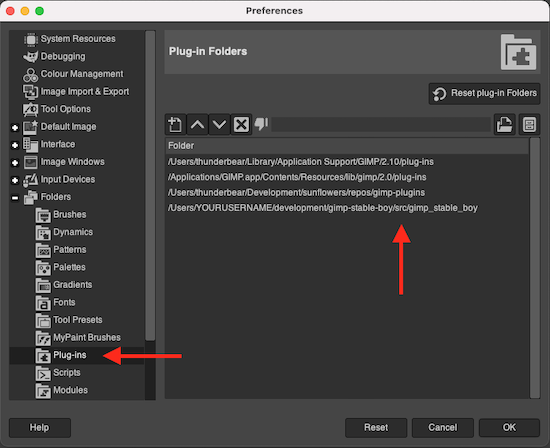
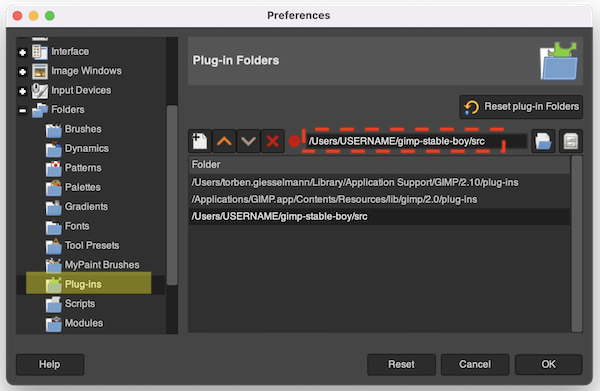
Readme and docs assets

Changed region(s): [[0.0, 0.0, 1.0, 1.0]]

diff --git a/README.md b/README.md
@@ -7,7 +7,6 @@
   </p>
 </div>
 
-<!-- ABOUT THE PROJECT -->
 ## About
 
 [AUTOMATIC1111's Stable Diffusion WebUI](https://github.com/AUTOMATIC1111/stable-diffusion-webui) is one of the most powerful tools in the generative AI space. Stable Boy puts that power into GIMP 2.10 by calling into A1111 WebUI's API.
@@ -15,8 +14,6 @@
 Here's a short demo video:
 
 [![A short demo](./public/images/demo-video-screenshot.png)](https://youtu.be/YMVog30OcTI)
-
-(Not shown: 🆕 Using rectangular selections to select the region that Stable Diffusion will process. See Usage below.)
 
 <p align="right">(<a href="#readme-top">back to top</a>)</p>
 
@@ -37,12 +34,9 @@ Here's a short demo video:
 1. Start A1111 WebUI with argument `--api`. It doesn't matter whether it's running on your local machine or somewhere in the cloud.
 1. Open Stable Boy's preferences (top menu > Stable Boy > Preferences) and copy-paste A1111 WebUI's URL (something like `https://abcdef123.gradio.com`) into the `API URL` field.
 
-
 <p align="right">(<a href="#readme-top">back to top</a>)</p>
 
 
-
-<!-- USAGE EXAMPLES -->
 ## Usage
 
 Stable Boy can be found in the `Stable Boy` top menu, with the following options:
@@ -64,11 +58,12 @@ The minimum resolution is 512x512. Ideally choose dimensions that are multiples 
 
 ### Generate images or layers
 
-Stable Boy can open results coming from Stable Diffusion either as new images or add them as new layers to the current image. The `Results as` option dropdown lets you control this.
+Stable Boy can open results coming from Stable Diffusion as new images, or they can be added as new layers to the current image. The `Results as` option dropdown lets you control this.
 
 Using layers is very powerful, especially when inpainting large images. In the GIF below you can see how multiple variations of inpainting are added as layers, which can then be compared easily:
 
-GIF GIF GIF
+<!-- ![Inpainting with layers](public/images/inpainting_with_layers.gif) -->
+![Inpainting with layers](public/images/inpainting_v5.gif)
 
 ### Support for Rectangle Selection tool
 
@@ -76,7 +71,7 @@ Use rectangular selections for selecting the region that Stable Diffusion will p
 
 > 👉 Using GIMP's fixed-size rectangular selections makes this easy.
 
-GIF GIF GIF
+🔴🔴🔴 GIF GIF GIF
 
 If there is neither a selection nor an inpainting mask (see below), Stable Boy will process the full image. (Therefore image sizes should also be multiples of 8.)
 
@@ -84,7 +79,7 @@ If there is neither a selection nor an inpainting mask (see below), Stable Boy w
 
 Add a layer named `Inpainting Mask` to the image and make it the top layer. Use a paintbrush and paint the region you want to inpaint with black on that mask layer. Stable Boy will automatically determine the area of the image to process (multiples of 256 and at least 512x512). When results are added as layers, the inpainting mask is applied to those layers so that they really only contain the masked part.
 
-GIF GIF GIF
+🔴🔴🔴 GIF GIF GIF
 
 As can be seen in the GIF above, Stable Boy inserts any generated layers below the inpainting mask layer and then hides the mask layer. The mask itself remains as is.
 
@@ -96,19 +91,17 @@ X/Y plotting is an essential step in the generative art workflow: since changes 
 
 When running the X/Y plot script you'll have to choose a mode (Text to Image, Image to Image, or Inpainting). The script will then use that mode's settings from the last time that mode was run:
 
-screenshot screenshot screenshot screenshot
+![XY plot mode options](public/images/xy_plot_mode_selection.png)
 
 The result of X/Y plot is a grid as well as the individual images. Use the `Grid only` option to control whether the individual images should be included. Grids are always opened as separate images, whereas the individual images are added to the existing image as nested layer groups. Each layer is named after its X/Y parameter combination:
 
-GIF GIF GIF
+🔴🔴🔴 GIF GIF GIF
 
 **NOTE:** For now, script support is **disabled** by default since some changes to A1111's API are necessary. The branch with the required A1111 SD WebUI API changes can be found here: `https://github.com/tgiesselmann/stable-diffusion-webui/tree/script-api`. There is also a [pull request for these API changes](https://github.com/AUTOMATIC1111/stable-diffusion-webui/pull/5940) but it hasn't been merged yet. Once you are running A1111 with the required API changes you can enable X/Y plot by editing `src/gimp_stable_boy/config.py` and setting `Config.ENABLE_SCRIPTS` to `True`.
 
 <p align="right">(<a href="#readme-top">back to top</a>)</p>
 
 
-
-<!-- ROADMAP -->
 ## Roadmap
 
 ✅ ~~Rectangular selections as image sources for each mode~~
@@ -117,7 +110,7 @@ GIF GIF GIF
 
 ✅ ~~Script: X/Y plot~~
 
-- [ ] Script: outpainting
+- [ ] Outpainting
 - [ ] Better GUI
 - [ ] Keep metadata (seed, sampler settings and such)
 - [ ] Support for more options
@@ -128,8 +121,6 @@ See the [open issues](https://github.com/tgiesselmann/gimp-stable-boy/issues) fo
 <p align="right">(<a href="#readme-top">back to top</a>)</p>
 
 
-
-<!-- CONTRIBUTING -->
 ## Contributing
 
 Contributions are what make the open source community such an amazing place to learn, inspire, and create. Any contributions you make are **greatly appreciated**. If you have a suggestion that would make this better, please fork the repo and create a pull request. Thank you!
@@ -143,8 +134,6 @@ Contributions are what make the open source community such an amazing place to l
 <p align="right">(<a href="#readme-top">back to top</a>)</p>
 
 
-
-<!-- LICENSE -->
 ## License
 
 Distributed under the GNU General Public License v3.0. See file [`COPYING`](COPYING) for more information.
@@ -152,8 +141,6 @@ Distributed under the GNU General Public License v3.0. See file [`COPYING`](COPY
 <p align="right">(<a href="#readme-top">back to top</a>)</p>
 
 
-
-<!-- CONTACT -->
 ## Contact
 
 Torben: tsgiesselmann@gmail.com
@@ -163,8 +150,6 @@ Stable Boy: [https://github.com/tgiesselmann/gimp-stable-boy](https://github.com
 <p align="right">(<a href="#readme-top">back to top</a>)</p>
 
 
-
-<!-- ACKNOWLEDGMENTS -->
 ## Acknowledgments
 
 In the end, everyone stands on the shoulders of giants.
